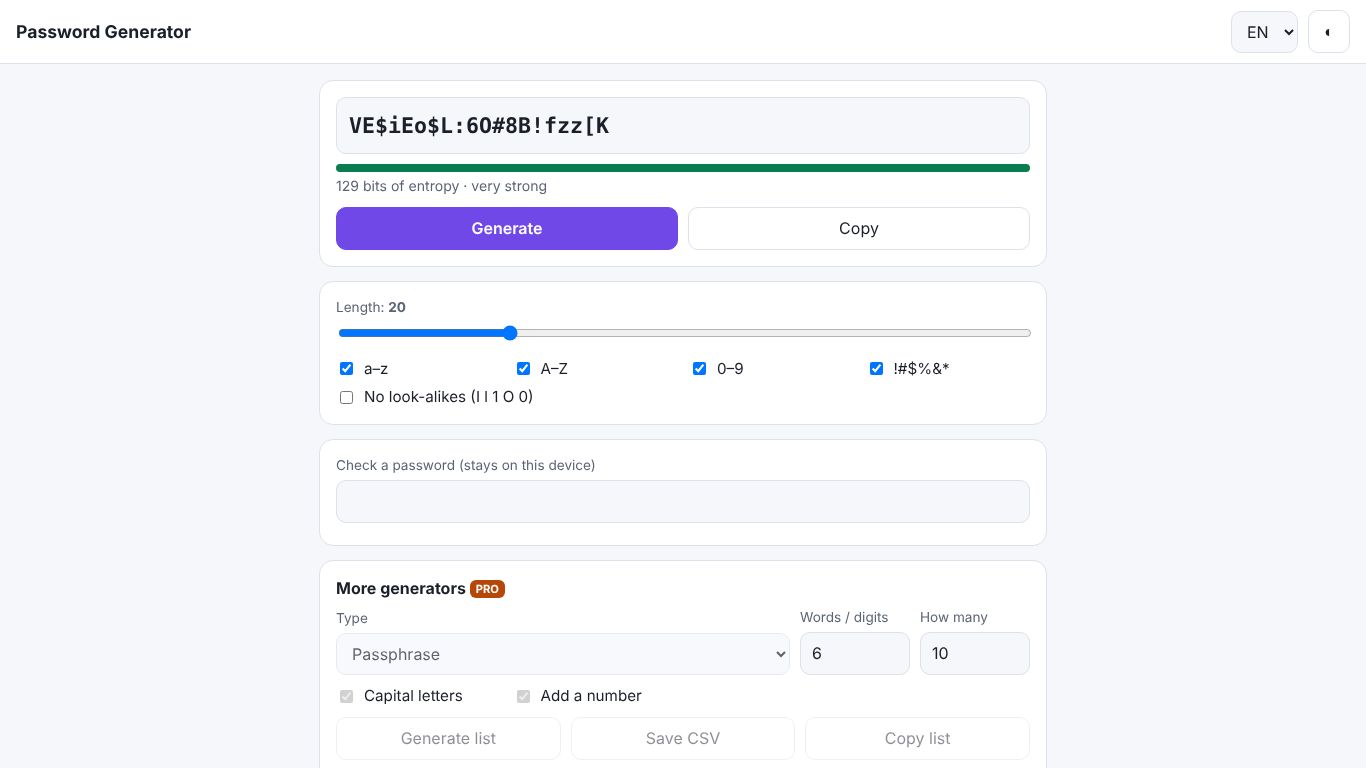
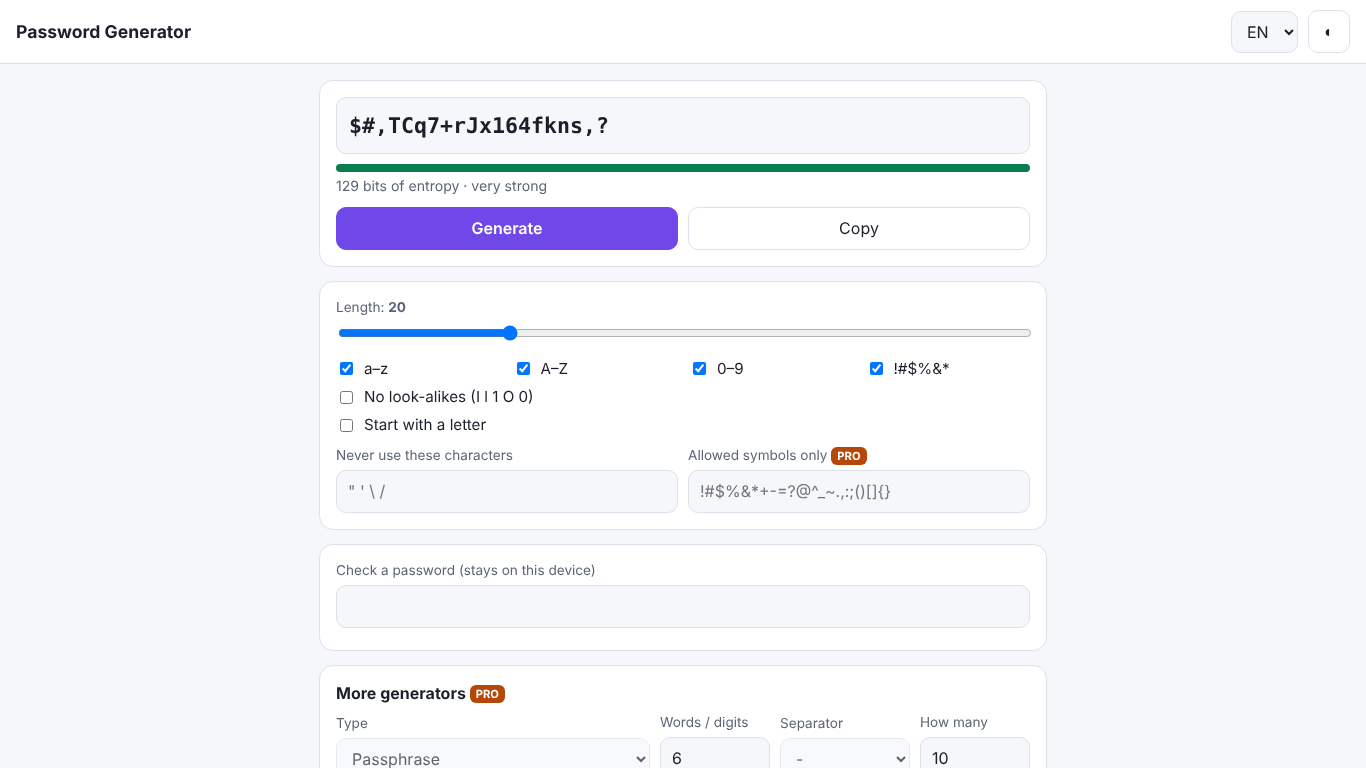
upd: WIP (stopped by request, resume later)
Claude-Session: https://claude.ai/code/session_01YQDvpoPGKtNh935CpkWmt1

diff --git a/pass/app.js b/pass/app.js
@@ -2,28 +2,32 @@
   'use strict';
   const SKU = 'pro';
   const DICT = {
-    ro: { appName: 'Generator de parole', generate: 'Generează', length: 'Lungime', noSimilar: 'Fără caractere asemănătoare (I l 1 O 0)', checkLabel: 'Verifică o parolă (rămâne pe acest dispozitiv)', proTools: 'Alte generatoare', kind: 'Tip', kindPhrase: 'Frază din cuvinte', kindPin: 'PIN', kindPron: 'Ușor de pronunțat', kindRandom: 'Aleatorie (setările de sus)', words: 'Cuvinte / cifre', count: 'Câte', capitalize: 'Majuscule', addNumber: 'Adaugă un număr', bulk: 'Generează lista', csv: 'Salvează CSV', copyList: 'Copiază lista', offlineNote: 'Parolele sunt create pe dispozitivul tău și nu sunt trimise sau salvate nicăieri. Funcționează și fără internet.', proPitch: 'Fraze din cuvinte în română, engleză și rusă, PIN-uri, parole ușor de pronunțat, liste de până la 500 și export CSV.',
+    ro: { appName: 'Generator de parole', generate: 'Generează', length: 'Lungime', noSimilar: 'Fără caractere asemănătoare (I l 1 O 0)', checkLabel: 'Verifică o parolă (rămâne pe acest dispozitiv)', proTools: 'Alte generatoare', kind: 'Tip', kindPhrase: 'Frază din cuvinte', kindPin: 'PIN', kindPron: 'Ușor de pronunțat', kindRandom: 'Aleatorie (setările de sus)', words: 'Cuvinte / cifre', count: 'Câte', capitalize: 'Majuscule', addNumber: 'Adaugă un număr', bulk: 'Generează lista', csv: 'Salvează CSV', copyList: 'Copiază lista', offlineNote: 'Parolele sunt create pe dispozitivul tău și nu sunt trimise sau salvate nicăieri. Funcționează și fără internet.', proPitch: 'Fraze din cuvinte în română, engleză și rusă cu separatorul ales, PIN-uri, parole ușor de pronunțat, simbolurile permise de tine, liste de până la 500 și export CSV.', startLetter: 'Începe cu o literă', exclude: 'Nu folosi niciodată aceste caractere', symSet: 'Doar aceste simboluri', sep: 'Separator', sepSpace: 'spațiu', sepNone: 'fără', noChars: 'Niciun caracter disponibil: schimbă setările.',
       bits: '{b} biți de entropie · {l}', weak: 'slabă', fair: 'acceptabilă', strong: 'puternică', veryStrong: 'foarte puternică', listInfo: '{n} parole · ~{b} biți fiecare', empty: '—' },
-    en: { appName: 'Password Generator', generate: 'Generate', length: 'Length', noSimilar: 'No look-alikes (I l 1 O 0)', checkLabel: 'Check a password (stays on this device)', proTools: 'More generators', kind: 'Type', kindPhrase: 'Passphrase', kindPin: 'PIN', kindPron: 'Easy to say', kindRandom: 'Random (settings above)', words: 'Words / digits', count: 'How many', capitalize: 'Capital letters', addNumber: 'Add a number', bulk: 'Generate list', csv: 'Save CSV', copyList: 'Copy list', offlineNote: 'Passwords are created on your device and are never sent or saved. Works offline too.', proPitch: 'Passphrases in English, Romanian and Russian, PINs, easy-to-say passwords, lists of up to 500 and CSV export.',
+    en: { appName: 'Password Generator', generate: 'Generate', length: 'Length', noSimilar: 'No look-alikes (I l 1 O 0)', checkLabel: 'Check a password (stays on this device)', proTools: 'More generators', kind: 'Type', kindPhrase: 'Passphrase', kindPin: 'PIN', kindPron: 'Easy to say', kindRandom: 'Random (settings above)', words: 'Words / digits', count: 'How many', capitalize: 'Capital letters', addNumber: 'Add a number', bulk: 'Generate list', csv: 'Save CSV', copyList: 'Copy list', offlineNote: 'Passwords are created on your device and are never sent or saved. Works offline too.', proPitch: 'Passphrases in English, Romanian and Russian with your choice of separator, PINs, easy-to-say passwords, your own allowed symbols, lists of up to 500 and CSV export.', startLetter: 'Start with a letter', exclude: 'Never use these characters', symSet: 'Allowed symbols only', sep: 'Separator', sepSpace: 'space', sepNone: 'none', noChars: 'No characters left: change the settings.',
       bits: '{b} bits of entropy · {l}', weak: 'weak', fair: 'fair', strong: 'strong', veryStrong: 'very strong', listInfo: '{n} passwords · ~{b} bits each', empty: '—' },
-    ru: { appName: 'Генератор паролей', generate: 'Создать', length: 'Длина', noSimilar: 'Без похожих символов (I l 1 O 0)', checkLabel: 'Проверить пароль (остаётся на устройстве)', proTools: 'Другие генераторы', kind: 'Тип', kindPhrase: 'Фраза из слов', kindPin: 'PIN-код', kindPron: 'Легко произнести', kindRandom: 'Случайный (настройки выше)', words: 'Слова / цифры', count: 'Сколько', capitalize: 'Заглавные буквы', addNumber: 'Добавить число', bulk: 'Создать список', csv: 'Сохранить CSV', copyList: 'Копировать список', offlineNote: 'Пароли создаются на вашем устройстве и никуда не отправляются и не сохраняются. Работает и без интернета.', proPitch: 'Фразы из слов на русском, английском и румынском, PIN-коды, легко произносимые пароли, списки до 500 и экспорт CSV.',
+    ru: { appName: 'Генератор паролей', generate: 'Создать', length: 'Длина', noSimilar: 'Без похожих символов (I l 1 O 0)', checkLabel: 'Проверить пароль (остаётся на устройстве)', proTools: 'Другие генераторы', kind: 'Тип', kindPhrase: 'Фраза из слов', kindPin: 'PIN-код', kindPron: 'Легко произнести', kindRandom: 'Случайный (настройки выше)', words: 'Слова / цифры', count: 'Сколько', capitalize: 'Заглавные буквы', addNumber: 'Добавить число', bulk: 'Создать список', csv: 'Сохранить CSV', copyList: 'Копировать список', offlineNote: 'Пароли создаются на вашем устройстве и никуда не отправляются и не сохраняются. Работает и без интернета.', proPitch: 'Фразы из слов на русском, английском и румынском с выбранным разделителем, PIN-коды, легко произносимые пароли, свои разрешённые символы, списки до 500 и экспорт CSV.', startLetter: 'Начинать с буквы', exclude: 'Никогда не использовать эти символы', symSet: 'Только эти символы', sep: 'Разделитель', sepSpace: 'пробел', sepNone: 'без', noChars: 'Не осталось символов: измените настройки.',
       bits: '{b} бит энтропии · {l}', weak: 'слабый', fair: 'средний', strong: 'надёжный', veryStrong: 'очень надёжный', listInfo: '{n} паролей · ~{b} бит каждый', empty: '—' }
   };
   const $ = id => document.getElementById(id);
   let isPro = false;
-  const OPT_IDS = ['lower', 'upper', 'digits', 'symbols', 'noSimilar'];
+  const OPT_IDS = ['lower', 'upper', 'digits', 'symbols', 'noSimilar', 'startLetter'];
 
   function opts() {
-    const o = { length: +$('len').value };
+    const o = { length: +$('len').value, exclude: $('exclude').value };
     OPT_IDS.forEach(k => { o[k] = $(k).checked; });
+    if (isPro && PassGen.cleanSymbols($('symSet').value)) o.symbolSet = $('symSet').value;
     return o;
   }
-  function saveOpts() { Core.store('passOpts', JSON.stringify(opts())); }
+  function saveOpts() { Core.store('passOpts', JSON.stringify(Object.assign(opts(), { symSet: $('symSet').value, sep: $('sep').value }))); }
   function loadOpts() {
     try {
       const o = JSON.parse(Core.store('passOpts') || 'null');
       if (!o) return;
       if (o.length) $('len').value = o.length;
+      if (typeof o.exclude === 'string') $('exclude').value = o.exclude;
+      if (typeof o.symSet === 'string') $('symSet').value = o.symSet;
+      if (typeof o.sep === 'string' && [...$('sep').options].some(x => x.value === o.sep)) $('sep').value = o.sep;
       OPT_IDS.forEach(k => { if (k in o) $(k).checked = !!o[k]; });
     } catch (e) { /* ignore */ }
   }
@@ -36,24 +40,26 @@
     const o = opts();
     if (!o.lower && !o.upper && !o.digits && !o.symbols) { $('lower').checked = true; o.lower = true; }
     $('lenVal').textContent = o.length;
-    $('out').textContent = PassGen.generate(o);
-    showStrength(PassGen.bits(o.length, PassGen.poolSize(o)), $('strength'), $('bar'));
     saveOpts();
+    try { $('out').textContent = PassGen.generate(o); }
+    catch (e) { $('out').textContent = ''; $('strength').textContent = Core.t('noChars'); $('bar').style.width = '0'; return; }
+    showStrength(PassGen.genBits(o), $('strength'), $('bar'));
   }
   function proOpts() {
     const n = +$('words').value;
-    return Object.assign(opts(), { words: n, length: $('kind').value === 'random' ? +$('len').value : n, sep: '-', capitalize: $('cap').checked, number: $('num').checked, lang: Core.lang });
+    return Object.assign(opts(), { words: n, length: $('kind').value === 'random' ? +$('len').value : n, sep: $('sep').value, capitalize: $('cap').checked, number: $('num').checked, lang: Core.lang });
   }
   function bulkBits(kind, o) {
     if (kind === 'phrase') return PassGen.passphraseBits(o);
     if (kind === 'pin') return PassGen.bits(Math.max(3, Math.min(12, o.length)), 10);
     if (kind === 'pron') return Math.round(Math.max(6, Math.min(32, o.length)) / 2 * Math.log2(80) + Math.log2(100));
-    return PassGen.bits(o.length, PassGen.poolSize(o));
+    return PassGen.genBits(o);
   }
   function bulk() {
     if (!isPro) return;
     const kind = $('kind').value, o = proOpts();
-    const list = PassGen.bulk(kind, o, +$('count').value);
+    let list;
+    try { list = PassGen.bulk(kind, o, +$('count').value); } catch (e) { $('list').value = ''; $('listInfo').textContent = Core.t('noChars'); return; }
     $('list').value = list.join('\n');
     $('listInfo').textContent = Core.t('listInfo', { n: list.length, b: bulkBits(kind, o) });
   }
@@ -61,7 +67,7 @@
     try { await navigator.clipboard.writeText(text); btn.textContent = Core.t('copied'); setTimeout(() => { btn.textContent = Core.t(label); }, 1200); } catch (e) { /* blocked */ }
   }
   function lockPro() {
-    ['kind', 'words', 'count', 'cap', 'num', 'bulk', 'csv', 'copyList'].forEach(id => { $(id).disabled = !isPro; });
+    ['kind', 'words', 'sep', 'count', 'cap', 'num', 'bulk', 'csv', 'copyList', 'symSet'].forEach(id => { $(id).disabled = !isPro; });
   }
 
   loadOpts();
@@ -70,6 +76,9 @@
   $('gen').addEventListener('click', gen);
   $('len').addEventListener('input', gen);
   OPT_IDS.forEach(k => $(k).addEventListener('change', gen));
+  $('exclude').addEventListener('input', gen);
+  $('symSet').addEventListener('input', gen);
+  $('sep').addEventListener('change', () => { saveOpts(); if ($('list').value) bulk(); });
   $('copy').addEventListener('click', () => copy($('out').textContent, $('copy'), 'copy'));
   $('check').addEventListener('input', () => showStrength(PassGen.estimate($('check').value), $('checkOut')));
   $('bulk').addEventListener('click', bulk);
@@ -80,5 +89,5 @@
     const a = document.createElement('a'); a.href = URL.createObjectURL(blob); a.download = 'passwords.csv';
     document.body.appendChild(a); a.click(); a.remove(); setTimeout(() => URL.revokeObjectURL(a.href), 1000);
   });
-  Core.wirePro(SKU, owned => { isPro = owned; lockPro(); });
+  Core.wirePro(SKU, owned => { const was = isPro; isPro = owned; lockPro(); if (was !== owned && PassGen.cleanSymbols($('symSet').value)) gen(); });
 })();

diff --git a/pass/logic.js b/pass/logic.js
@@ -20,16 +20,29 @@
   function pick(str, rng) { return str[randInt(str.length, rng)]; }
   function shuffle(a, rng) { for (let i = a.length - 1; i > 0; i--) { const j = randInt(i + 1, rng); [a[i], a[j]] = [a[j], a[i]]; } return a; }
 
+  /* Keeps only printable ASCII symbols (no letters, digits or spaces), each once. */
+  function cleanSymbols(str) {
+    return [...new Set(String(str || '').split(''))].filter(c => /[!-~]/.test(c) && !/[A-Za-z0-9]/.test(c)).join('');
+  }
+  function poolFor(k, o) {
+    let s = k === 'symbols' && o.symbolSet ? cleanSymbols(o.symbolSet) : SETS[k];
+    if (o.noSimilar) s = s.replace(SIMILAR, '');
+    if (o.exclude) { const ex = new Set(String(o.exclude)); s = [...s].filter(c => !ex.has(c)).join(''); }
+    return s;
+  }
   function pools(o) {
     const out = [];
     for (const k of ['lower', 'upper', 'digits', 'symbols']) {
       if (!o[k]) continue;
-      const s = o.noSimilar ? SETS[k].replace(SIMILAR, '') : SETS[k];
+      const s = poolFor(k, o);
       if (s) out.push(s);
     }
     return out;
   }
-  /* opts: length, lower, upper, digits, symbols, noSimilar. Every chosen set appears at least once. */
+  function letterPool(o) { return (o.lower ? poolFor('lower', o) : '') + (o.upper ? poolFor('upper', o) : ''); }
+  /* opts: length, lower, upper, digits, symbols, noSimilar, exclude (characters never used),
+     startLetter (first character is a letter), symbolSet (Pro: allowed symbols instead of the default set).
+     Every chosen set appears at least once. */
   function generate(o, rng) {
     const len = Math.max(4, Math.min(128, o.length | 0 || 16));
     const ps = pools(o);
@@ -37,10 +50,24 @@
     const all = ps.join('');
     const chars = ps.map(p => pick(p, rng));
     while (chars.length < len) chars.push(pick(all, rng));
-    return shuffle(chars, rng).slice(0, len).join('');
+    const out = shuffle(chars, rng).slice(0, len);
+    const letters = letterPool(o);
+    if (o.startLetter && letters && !letters.includes(out[0])) {
+      const idx = out.map((c, i) => (letters.includes(c) ? i : -1)).filter(i => i > 0);
+      if (idx.length) { const j = idx[randInt(idx.length, rng)]; [out[0], out[j]] = [out[j], out[0]]; }
+      else out[0] = pick(letters, rng);
+    }
+    return out.join('');
   }
   function poolSize(o) { return pools(o).join('').length; }
   const bits = (len, pool) => (pool > 1 ? Math.round(len * Math.log2(pool)) : 0);
+  /* Entropy of generate(o): a forced first letter carries log2(letters) bits instead of log2(pool). */
+  function genBits(o) {
+    const len = Math.max(4, Math.min(128, o.length | 0 || 16)), pool = poolSize(o), letters = letterPool(o).length;
+    if (pool < 2) return 0;
+    if (!o.startLetter || !letters) return bits(len, pool);
+    return Math.round((len - 1) * Math.log2(pool) + Math.log2(Math.max(1, letters)));
+  }
 
   /* Estimated entropy of an arbitrary password (character classes present). */
   function estimate(pw) {
@@ -105,7 +132,7 @@
     }).join('\r\n') + '\r\n';
   }
 
-  const api = { SETS, generate, poolSize, bits, estimate, level, passphrase, passphraseBits, pin, pronounceable, bulk, toCsv, WORDS, randInt };
+  const api = { SETS, cleanSymbols, genBits, generate, poolSize, bits, estimate, level, passphrase, passphraseBits, pin, pronounceable, bulk, toCsv, WORDS, randInt };
   if (typeof module !== 'undefined' && module.exports) module.exports = api;
   else global.PassGen = api;
 })(typeof window !== 'undefined' ? window : globalThis);

diff --git a/pass/index.html b/pass/index.html
@@ -53,6 +53,11 @@
       <label><input type="checkbox" id="digits" checked> <span>0–9</span></label>
       <label><input type="checkbox" id="symbols" checked> <span>!#$%&amp;*</span></label>
       <label class="wide"><input type="checkbox" id="noSimilar"> <span data-i18n="noSimilar">No look-alikes (I l 1 O 0)</span></label>
+      <label class="wide"><input type="checkbox" id="startLetter"> <span data-i18n="startLetter">Start with a letter</span></label>
+    </div>
+    <div class="row" style="margin-top:10px">
+      <div><label for="exclude" data-i18n="exclude">Never use these characters</label><input id="exclude" autocomplete="off" spellcheck="false" maxlength="100" placeholder="&quot; ' \ /"></div>
+      <div><label for="symSet"><span data-i18n="symSet">Allowed symbols only</span> <span class="pro-badge">PRO</span></label><input id="symSet" autocomplete="off" spellcheck="false" maxlength="40" placeholder="!#$%&amp;*+-=?@^_~.,:;()[]{}"></div>
     </div>
   </section>
   <section class="card">
@@ -71,6 +76,8 @@
           <option value="random" data-i18n="kindRandom">Random (settings above)</option>
         </select></div>
       <div style="flex:0 0 110px"><label for="words" data-i18n="words">Words / digits</label><input id="words" type="number" min="3" max="12" value="6"></div>
+      <div style="flex:0 0 130px"><label for="sep" data-i18n="sep">Separator</label>
+        <select id="sep"><option value="-">-</option><option value=" " data-i18n="sepSpace">space</option><option value=".">.</option><option value="_">_</option><option value="" data-i18n="sepNone">none</option></select></div>
       <div style="flex:0 0 110px"><label for="count" data-i18n="count">How many</label><input id="count" type="number" min="1" max="500" value="10"></div>
     </div>
     <div class="checks">
@@ -87,7 +94,7 @@
   </section>
   <section class="card pro-box hidden" id="proBox">
     <h2 style="font-size:1rem;margin:0 0 6px" data-i18n="proTitle">Pro version</h2>
-    <p class="muted" data-i18n="proPitch">Passphrases in English, Romanian and Russian, PINs, easy-to-say passwords, lists of up to 500 and CSV export.</p>
+    <p class="muted" data-i18n="proPitch">Passphrases in English, Romanian and Russian with your choice of separator, PINs, easy-to-say passwords, your own allowed symbols, lists of up to 500 and CSV export.</p>
     <button class="primary" id="proBuy" data-i18n="proBuy">Unlock Pro</button>
     <p class="muted" id="proStatus"></p>
   </section>

diff --git a/tests/e2e.js b/tests/e2e.js
@@ -405,6 +405,47 @@ async function newPage(browser, base, opts = {}) {
     await ctx.close();
   });
 
+  await check('pass v1.2: excluded characters, start with a letter (free); allowed symbols, separator (Pro)', async () => {
+    let { ctx, page } = await newPage(browser, base);
+    await page.goto(base + 'pass/');
+    await page.uncheck('#upper'); await page.uncheck('#symbols');
+    await page.check('#startLetter');
+    await page.fill('#exclude', 'abcdefghijklm0123');
+    for (let i = 0; i < 20; i++) {
+      await page.click('#gen');
+      assert.match(await page.textContent('#out'), /^[n-z][n-z4-9]{15}$/);
+    }
+    assert.match(await page.textContent('#strength'), /^\d+ bits of entropy/);
+    await page.uncheck('#lower'); await page.fill('#exclude', '0123456789');
+    assert.equal(await page.textContent('#strength'), 'No characters left: change the settings.');
+    await page.fill('#exclude', 'abc');
+    await page.check('#lower');
+    assert.ok(await page.isDisabled('#symSet'));
+    assert.ok(await page.isDisabled('#sep'));
+    await page.reload();
+    assert.equal(await page.inputValue('#exclude'), 'abc');
+    assert.ok(await page.isChecked('#startLetter'));
+    assert.deepEqual(page.errors, []);
+    await ctx.close();
+    ({ ctx, page } = await newPage(browser, base, { pro: true }));
+    await page.goto(base + 'pass/');
+    await page.waitForFunction(() => !document.getElementById('symSet').disabled);
+    await page.uncheck('#lower'); await page.uncheck('#upper'); await page.uncheck('#digits');
+    await page.fill('#symSet', '!?a1');
+    assert.match(await page.textContent('#out'), /^[!?]{16}$/);
+    await page.check('#lower');
+    await page.selectOption('#kind', 'phrase'); await page.fill('#words', '3'); await page.fill('#count', '3');
+    await page.selectOption('#sep', ' '); await page.uncheck('#num');
+    await page.click('#bulk');
+    for (const l of (await page.inputValue('#list')).split('\n')) assert.match(l, /^[A-Z][a-z]+ [A-Z][a-z]+ [A-Z][a-z]+$/);
+    await page.selectOption('#sep', '');
+    assert.match((await page.inputValue('#list')).split('\n')[0], /^([A-Z][a-z]+){3}$/);
+    await page.reload();
+    assert.equal(await page.inputValue('#symSet'), '!?a1');
+    assert.deepEqual(page.errors, []);
+    await ctx.close();
+  });
+
   await check('days: between, add, about and Pro locked', async () => {
     const { ctx, page } = await newPage(browser, base);
     await page.goto(base + 'days/');

diff --git a/tests/unit.test.js b/tests/unit.test.js
@@ -398,3 +398,23 @@ test('focus v1.2: tasks (free), noise generator and tasks CSV (Pro)', () => {
   }
   assert.ok(r.white > r.pink && r.pink > r.brown, JSON.stringify(r));
 });
+
+test('pass v1.2: excluded characters, start with a letter (free); allowed symbols (Pro)', () => {
+  const o = { length: 14, lower: true, upper: true, digits: true, symbols: true, exclude: 'aA1!', startLetter: true };
+  for (let i = 0; i < 300; i++) {
+    const p = P.generate(o);
+    assert.equal(p.length, 14);
+    assert.match(p, /^[a-zA-Z]/);
+    assert.doesNotMatch(p, /[aA1!]/);
+    assert.match(p, /[0-9]/); assert.match(p, /[^a-zA-Z0-9]/);
+  }
+  assert.equal(P.poolSize(o), P.poolSize({ lower: true, upper: true, digits: true, symbols: true }) - 4);
+  assert.match(P.generate({ length: 6, digits: true, startLetter: true }), /^\d{6}$/, 'no letters chosen: ignored');
+  assert.throws(() => P.generate({ length: 8, digits: true, exclude: '0123456789' }));
+  assert.equal(P.cleanSymbols('!?ab 12!#é'), '!?#');
+  for (let i = 0; i < 100; i++) assert.match(P.generate({ length: 10, lower: true, symbols: true, symbolSet: '#_' }), /^(?=.*[#_])[a-z#_]{10}$/);
+  assert.equal(P.poolSize({ symbols: true, symbolSet: 'xyz' }), 0);
+  assert.equal(P.genBits({ length: 16, lower: true, upper: true, digits: true, symbols: true }), P.bits(16, P.poolSize({ lower: true, upper: true, digits: true, symbols: true })));
+  assert.equal(P.genBits({ length: 10, lower: true, digits: true, startLetter: true }), Math.round(9 * Math.log2(36) + Math.log2(26)));
+  assert.match(P.passphrase({ words: 3, sep: '', capitalize: true, lang: 'en' }), /^([A-Z][a-z]+){3}$/);
+});

diff --git a/store/listing.md b/store/listing.md
@@ -187,6 +187,19 @@ Pro (cumpărare unică): fraze din cuvinte românești, englezești sau rusești
 • Светлая и тёмная тема, русский, английский и румынский. Без аккаунта, рекламы и слежки, работает офлайн
 Pro (разовая покупка): фразы из русских, английских или румынских слов, PIN-коды, легко произносимые пароли, списки до 500 и экспорт CSV.
 
+**Update 1.2 — What's new:**
+EN: New free options for strict password rules: never use characters you choose and always start with a letter. Pro: allow only the symbols a site accepts, and pick the passphrase separator (dash, space, dot, underscore or none).
+RO: Opțiuni gratuite noi pentru reguli stricte de parolă: exclude caracterele pe care le alegi și începe mereu cu o literă. Pro: permite doar simbolurile acceptate de un site și alege separatorul frazei (cratimă, spațiu, punct, underscore sau fără).
+RU: Новые бесплатные настройки для строгих требований к паролям: исключить выбранные символы и всегда начинать с буквы. Pro: только символы, которые принимает сайт, и выбор разделителя фразы (дефис, пробел, точка, подчёркивание или без).
+
+**Updated description lines (1.2):**
+EN: • Option to skip look-alike characters (I, l, 1, O, 0) or any characters you choose, and to start with a letter
+EN: Pro (one-time add-on): passphrases from English, Romanian or Russian words with your choice of separator, PIN codes, easy-to-say passwords, your own allowed symbols, lists of up to 500 and CSV export.
+RO: • Opțiune fără caractere asemănătoare (I, l, 1, O, 0) sau fără caracterele alese de tine, și cu literă la început
+RO: Pro (cumpărare unică): fraze din cuvinte românești, englezești sau rusești cu separatorul ales, coduri PIN, parole ușor de pronunțat, simbolurile permise de tine, liste de până la 500 și export CSV.
+RU: • Без похожих символов (I, l, 1, O, 0) или любых выбранных вами символов, а также с буквой в начале
+RU: Pro (разовая покупка): фразы из русских, английских или румынских слов с выбранным разделителем, PIN-коды, легко произносимые пароли, свои разрешённые символы, списки до 500 и экспорт CSV.
+
 **Pro add-on listing:** name „Password Generator Pro”; EN: One-time purchase: passphrases, PINs, easy-to-say passwords, lists of up to 500 and CSV export. RO: Cumpărare unică: fraze din cuvinte, PIN-uri, parole ușor de pronunțat, liste de până la 500 și export CSV. RU: Разовая покупка: фразы из слов, PIN-коды, легко произносимые пароли, списки до 500 и экспорт CSV.
 
 ## 5. Stelar Date Calculator
